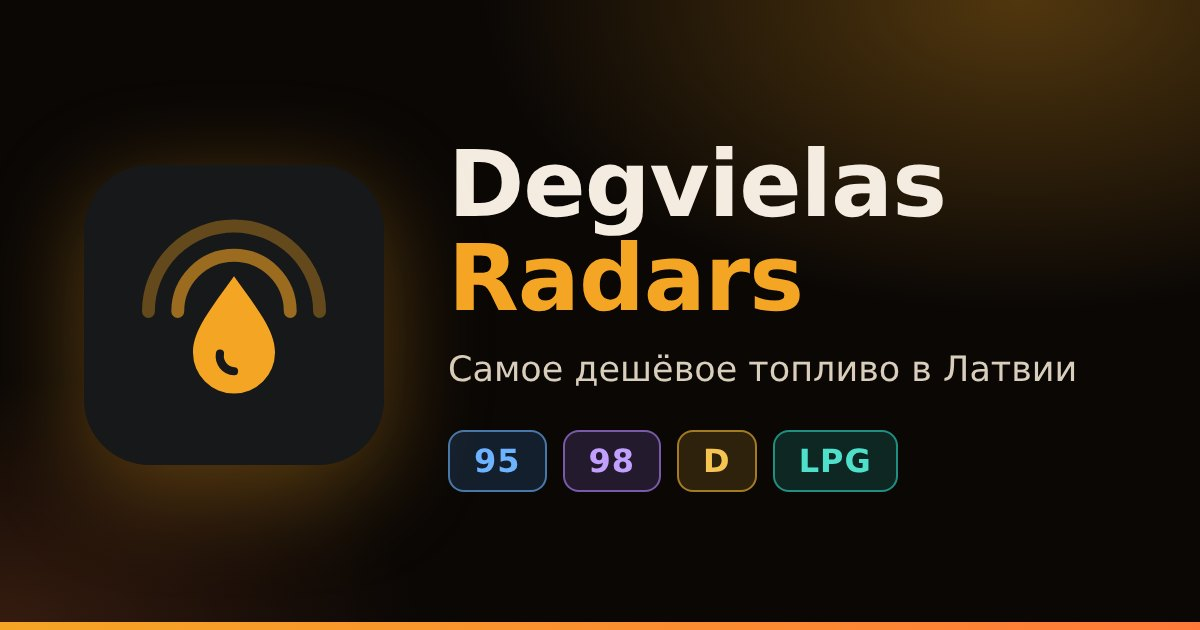
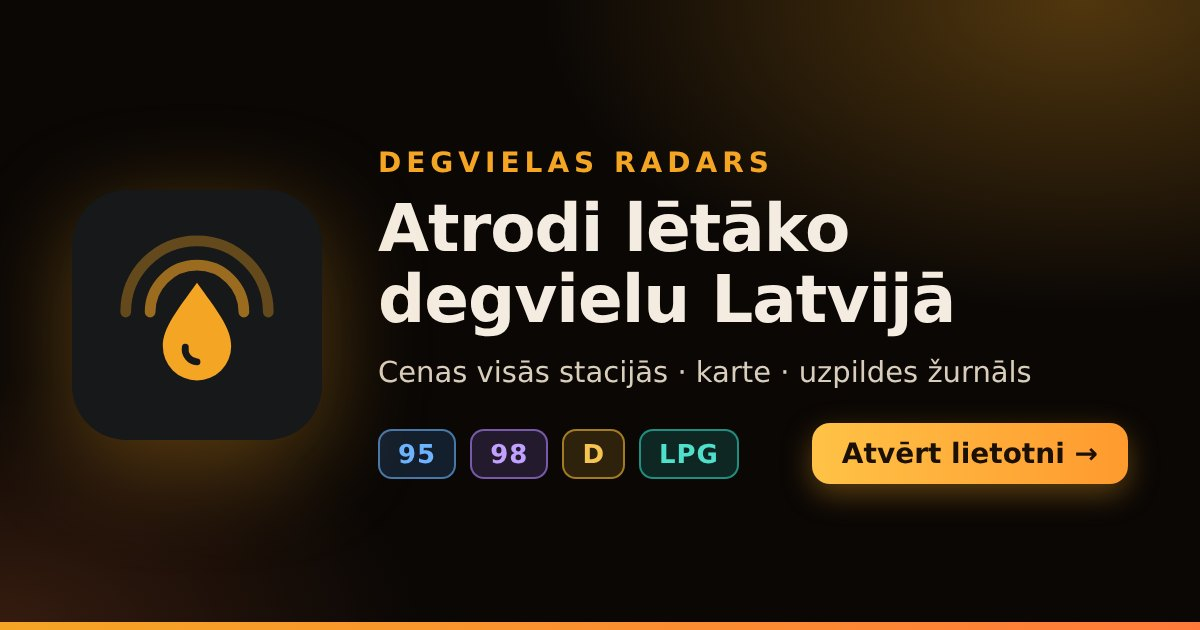
Make the link preview card Latvian
New 1200x630 card (icons/og.jpg) with the headline "Atrodi lētāko
degvielu Latvijā", chips for the fuels and an "Atvērt lietotni" call to
action; og/twitter title, description, alt and locale are Latvian too.

Claude-Session: https://claude.ai/code/session_01EJiXS5Gr7qXGxoE3FeaArF

Changed region(s): [[0.0617, 0.2111, 0.9558, 0.8143], [0.0925, 0.3317, 0.2775, 0.6333], [0.0617, 0.5127, 0.0925, 0.573]]

diff --git a/index.html b/index.html
@@ -9,18 +9,18 @@
 <!-- link preview: the card messengers show instead of a bare address -->
 <meta property="og:type" content="website">
 <meta property="og:site_name" content="Degvielas Radars">
-<meta property="og:title" content="Degvielas Radars">
-<meta property="og:description" content="Самое дешёвое топливо в Латвии прямо сейчас. Устанавливается на экран телефона как приложение.">
+<meta property="og:title" content="Degvielas Radars: lētākā degviela Latvijā">
+<meta property="og:description" content="Degvielas cenas visās stacijās, karte un uzpildes žurnāls. Instalē telefonā kā parastu lietotni.">
 <meta property="og:url" content="https://digitalcreatorhub.github.io/degvievas-radars/">
 <meta property="og:image" content="https://digitalcreatorhub.github.io/degvievas-radars/icons/og.jpg">
 <meta property="og:image:type" content="image/jpeg">
 <meta property="og:image:width" content="1200">
 <meta property="og:image:height" content="630">
-<meta property="og:image:alt" content="Degvielas Radars: самое дешёвое топливо в Латвии">
-<meta property="og:locale" content="ru_RU">
+<meta property="og:image:alt" content="Degvielas Radars: atrodi lētāko degvielu Latvijā">
+<meta property="og:locale" content="lv_LV">
 <meta name="twitter:card" content="summary_large_image">
-<meta name="twitter:title" content="Degvielas Radars">
-<meta name="twitter:description" content="Самое дешёвое топливо в Латвии прямо сейчас.">
+<meta name="twitter:title" content="Degvielas Radars: lētākā degviela Latvijā">
+<meta name="twitter:description" content="Degvielas cenas visās stacijās, karte un uzpildes žurnāls.">
 <meta name="twitter:image" content="https://digitalcreatorhub.github.io/degvievas-radars/icons/og.jpg">
 <script>try{if(JSON.parse(localStorage.getItem("dr.theme"))==="light"){document.documentElement.dataset.theme="light";document.querySelector('meta[name="theme-color"]').content="#f2ece2"}}catch(e){}</script>
 <link rel="manifest" href="manifest.webmanifest">
